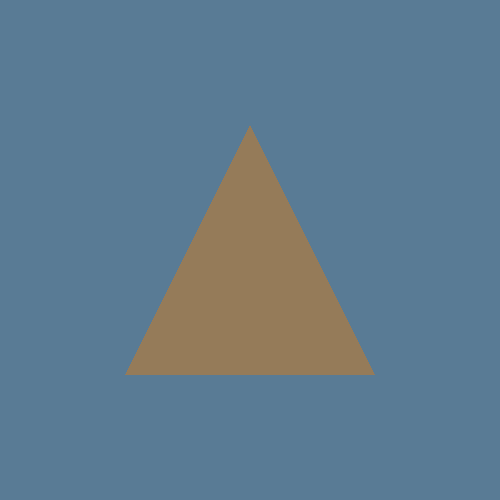
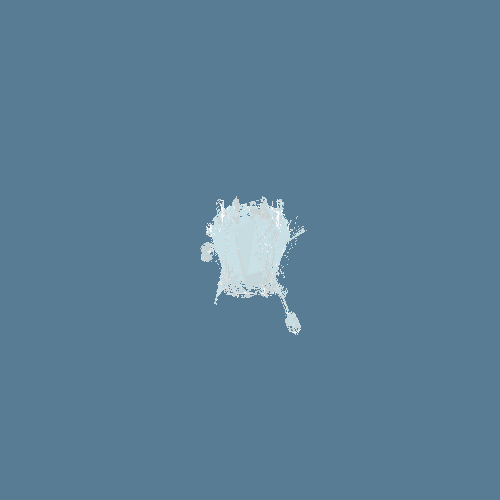
drawing

Changed region(s): [[0.24, 0.24, 0.75, 0.75]]

diff --git a/src/io/image_export.rs b/src/io/image_export.rs
@@ -85,9 +85,23 @@ pub async fn render_image(
             z: 0.0,
         },
         30.0,
-        2.0,
+        1.0,
         1.0,
         1000.0,
+    );
+
+    let light_uniform_buffer = buffer_factory::create_light_uniform_buffer(
+        &device,
+        Vec3 {
+            x: 0.0,
+            y: 0.0,
+            z: -1.0,
+        },
+    );
+
+    let material_uniform_buffer = buffer_factory::create_material_uniform_buffer(
+        &device,
+        [149, 191, 201, 255], // red color
     );
 
     let transform_bind_grp_layout_descriptor = wgpu::BindGroupLayoutDescriptor {
@@ -109,7 +123,7 @@ pub async fn render_image(
         entries: &[
             wgpu::BindGroupLayoutEntry {
                 binding: 0, // light
-                visibility: wgpu::ShaderStages::VERTEX,
+                visibility: wgpu::ShaderStages::FRAGMENT,
                 ty: wgpu::BindingType::Buffer {
                     ty: wgpu::BufferBindingType::Uniform,
                     has_dynamic_offset: false,
@@ -119,7 +133,7 @@ pub async fn render_image(
             },
             wgpu::BindGroupLayoutEntry {
                 binding: 1, // material
-                visibility: wgpu::ShaderStages::VERTEX,
+                visibility: wgpu::ShaderStages::FRAGMENT,
                 ty: wgpu::BindingType::Buffer {
                     ty: wgpu::BufferBindingType::Uniform,
                     has_dynamic_offset: false,
@@ -145,12 +159,18 @@ pub async fn render_image(
     });
 
     let mat_light_bind_group = device.create_bind_group(&wgpu::BindGroupDescriptor {
-        label: Some("Image Export Transform Bind Group"),
-        layout: &transform_bind_grp_layout,
-        entries: &[wgpu::BindGroupEntry {
-            binding: 0,
-            resource: mvp_uniform_buffer.as_entire_binding(),
-        }],
+        label: Some("Image Export Material-Light Bind Group"),
+        layout: &mat_light_bind_grp_layout,
+        entries: &[
+            wgpu::BindGroupEntry {
+                binding: 0,
+                resource: light_uniform_buffer.as_entire_binding(),
+            },
+            wgpu::BindGroupEntry {
+                binding: 1,
+                resource: material_uniform_buffer.as_entire_binding(),
+            },
+        ],
     });
 
     let texture_format = wgpu::TextureFormat::Rgba8UnormSrgb;
@@ -306,6 +326,8 @@ pub async fn render_image(
         let mut render_pass: wgpu::RenderPass =
             command_encoder.begin_render_pass(&render_pass_descriptor);
         render_pass.set_pipeline(&pipeline);
+        render_pass.set_bind_group(0, &transform_bind_group, &[]);
+        render_pass.set_bind_group(1, &mat_light_bind_group, &[]);
         render_pass.set_vertex_buffer(0, vertex_buffer.slice(..));
         render_pass.draw(0..vertices.len() as u32, 0..1)
     }

diff --git a/src/utils/buffer_factory.rs b/src/utils/buffer_factory.rs
@@ -34,7 +34,7 @@ pub fn create_mvp_uniform_buffer(
 
 pub fn create_light_uniform_buffer(device: &wgpu::Device, light_direction: Vec3) -> wgpu::Buffer {
     let light_uniform = LightUniform {
-        light_direction: light_direction.to_array(),
+        light_direction: light_direction.normalize().to_array(),
         _padding: 0.0,
     };
 
@@ -47,8 +47,14 @@ pub fn create_light_uniform_buffer(device: &wgpu::Device, light_direction: Vec3)
     device.create_buffer_init(&descriptor)
 }
 
-pub fn create_material_uniform_buffer(device: &wgpu::Device, base_color: [f32; 4]) -> wgpu::Buffer {
-    let material_uniform = MaterialUniform { base_color };
+pub fn create_material_uniform_buffer(
+    device: &wgpu::Device,
+    base_color_rgba: [u8; 4],
+) -> wgpu::Buffer {
+    let material_uniform = MaterialUniform {
+        base_color: u32::from_be_bytes(base_color_rgba),
+    };
+
     let descriptor = wgpu::util::BufferInitDescriptor {
         label: Some("Material Uniform Buffer"),
         contents: bytemuck::bytes_of(&material_uniform),

diff --git a/src/ds/model.rs b/src/ds/model.rs
@@ -67,7 +67,7 @@ pub struct LightUniform {
 #[repr(C)]
 #[derive(Debug, Clone, Copy, bytemuck::Pod, bytemuck::Zeroable)]
 pub struct MaterialUniform {
-    pub base_color: [f32; 4],
+    pub base_color: u32, // RGBA color packed into a u32 bytes
 }
 
 #[derive(Debug, Clone)]
